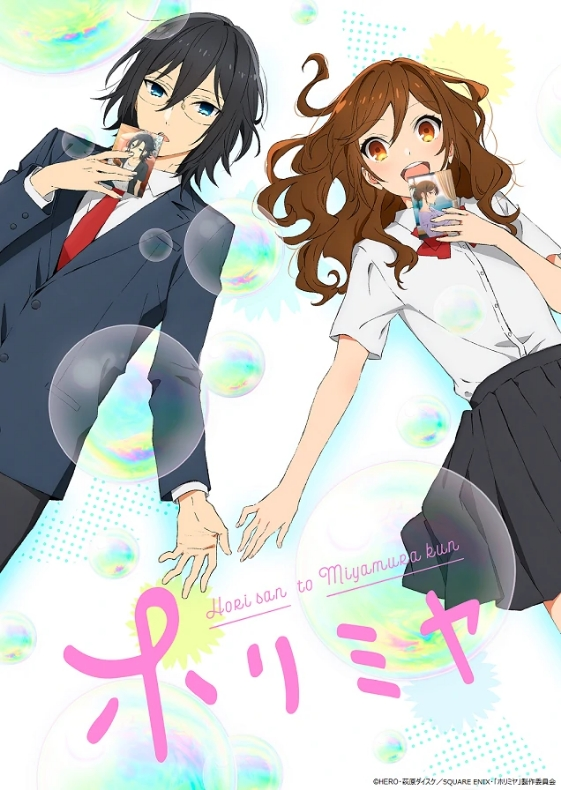
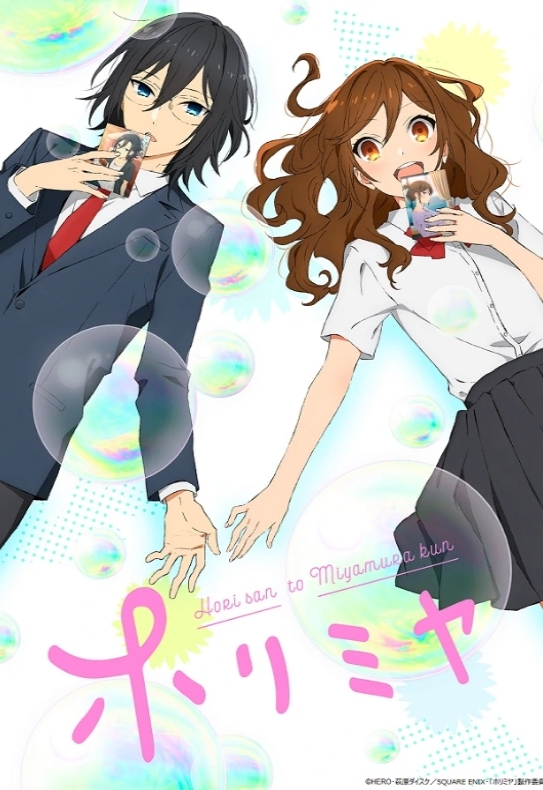
Adjustments to Responsive

diff --git a/src/App.css b/src/App.css
@@ -309,8 +309,8 @@ ul{
   margin-top: 35px;
 }
 .g-img-3{
-  height: 377px;
-  width: 277px;
+  height: 100%;
+  width: 100%;
 }
 /*************** FOOTER***************/
 .dark-bg {
@@ -378,7 +378,7 @@ a.footer-logo img {
 }
 .copyright {
   color: #2B2B2B;
-  font-size: 20px;
+  font-size: 18px;
   padding: 25px;
   margin-bottom: 0px;
   text-align: center;
@@ -403,7 +403,12 @@ a.social-logo:hover img {
 #about-us {
   background-color: #45d3e7;
   height: 65vh;
-  margin-top: -25px;
+  margin-top: 50px;
+  display: grid;
+}
+ul.row.characters-1 {
+  align-content: center;
+  margin: auto;
 }
 .characters-2 {
   display: flex;
@@ -411,11 +416,11 @@ a.social-logo:hover img {
   margin-top: 100px !important;
 }
 #about-us .cnt-block.equal-hight {
-  width: 400px;
-  background-color: #2B2B2B;
-  padding: 75px 100px 75px 100px;
-  height: 325px !important;
-  box-shadow: 0px 10px 12px rgb(0 0 0 / 65%);
+  width: 360px;
+  background-color: #2b2b2b;
+  padding: 75px 75px;
+  height: 325px!important;
+  box-shadow: 0 10px 12px rgb(0 0 0 / 65%);
 }
 #about-us img {
   height: 200px;
@@ -488,6 +493,7 @@ a.horimiya-characters {
 .mymodal h2 {
   font-family: 'Maiandra GD' !important;
   font-size: 45px;
+  font-weight: 400;
 }
 .mymodal p {
   text-align: justify;
@@ -623,7 +629,7 @@ a#rm-btn {
   font-family: 'Maiandra GD' !important;
   font-size: 50px;
   letter-spacing: 5px;
-  margin-bottom: 25px;
+  margin-bottom: 50px;
   text-align: center;
   font-weight: 400;
 }
@@ -687,7 +693,7 @@ img.ep-img {
 }
 h2.ep-title {
   font-family: 'Maiandra GD' !important;
-  font-size: 50px;
+  font-size: 45px;
   font-weight: 400;
 }
 p.ep-date {
@@ -741,7 +747,7 @@ img.ep-2-img {
 }
 h2.ep-2-title {
   font-family: 'Maiandra GD' !important;
-  font-size: 50px;
+  font-size: 45px;
   font-weight: 400;
 }
 p.ep-2-date {
@@ -853,9 +859,9 @@ img.hero-img {
 .bg-blue-hero {
   background-color: #45d3e7;
   width: 25%;
-  height: 65%;
   position: absolute;
   z-index: 0;
+  min-height: 70vh;
 }
 img.daisuke-img {
   border-radius: 50% !important;
@@ -868,10 +874,10 @@ img.daisuke-img {
 .bg-dark-daisuke {
   background-color: #2b2b2b;
   width: 25%;
-  height: 65%;
+  min-height: 70vh;
   position: absolute;
   z-index: 0;
-  left: 25%;
+  left: 24%;
 }
 .hero-img-container, .daisuke-img-container{
   display: grid;
@@ -884,8 +890,8 @@ p.daisuke-i {
   color: #fff;
   z-index: 9;
   margin-top: -100px;
-  font-size: 22px;
-  margin-right: -10px;
+  font-size: 14px;
+  margin-right: 15px;
 }
 p.hero-i {
   text-align: left;

diff --git a/src/components/Gallery.js b/src/components/Gallery.js
@@ -17,7 +17,7 @@ const Gallery = () => {
             <div className="row">
                 <div className="col-md-12 col-lg-4">
                     <div>
-                        <img className="" src={img1} alt="Horimiya - Main Background"></img>
+                        <img className="g-img-3" src={img1} alt="Horimiya - Main Background"></img>
                     </div>
                 </div>
                 <div className="col-md-12 col-lg-4">
@@ -40,7 +40,7 @@ const Gallery = () => {
                 </div>
                 <div className="col-md-12 col-lg-4">
                     <div>
-                        <img className="" src={img3} alt="Horimiya - Main Background"></img>
+                        <img className="g-img-3" src={img3} alt="Horimiya - Main Background"></img>
                     </div>
                 </div>
             </div>
